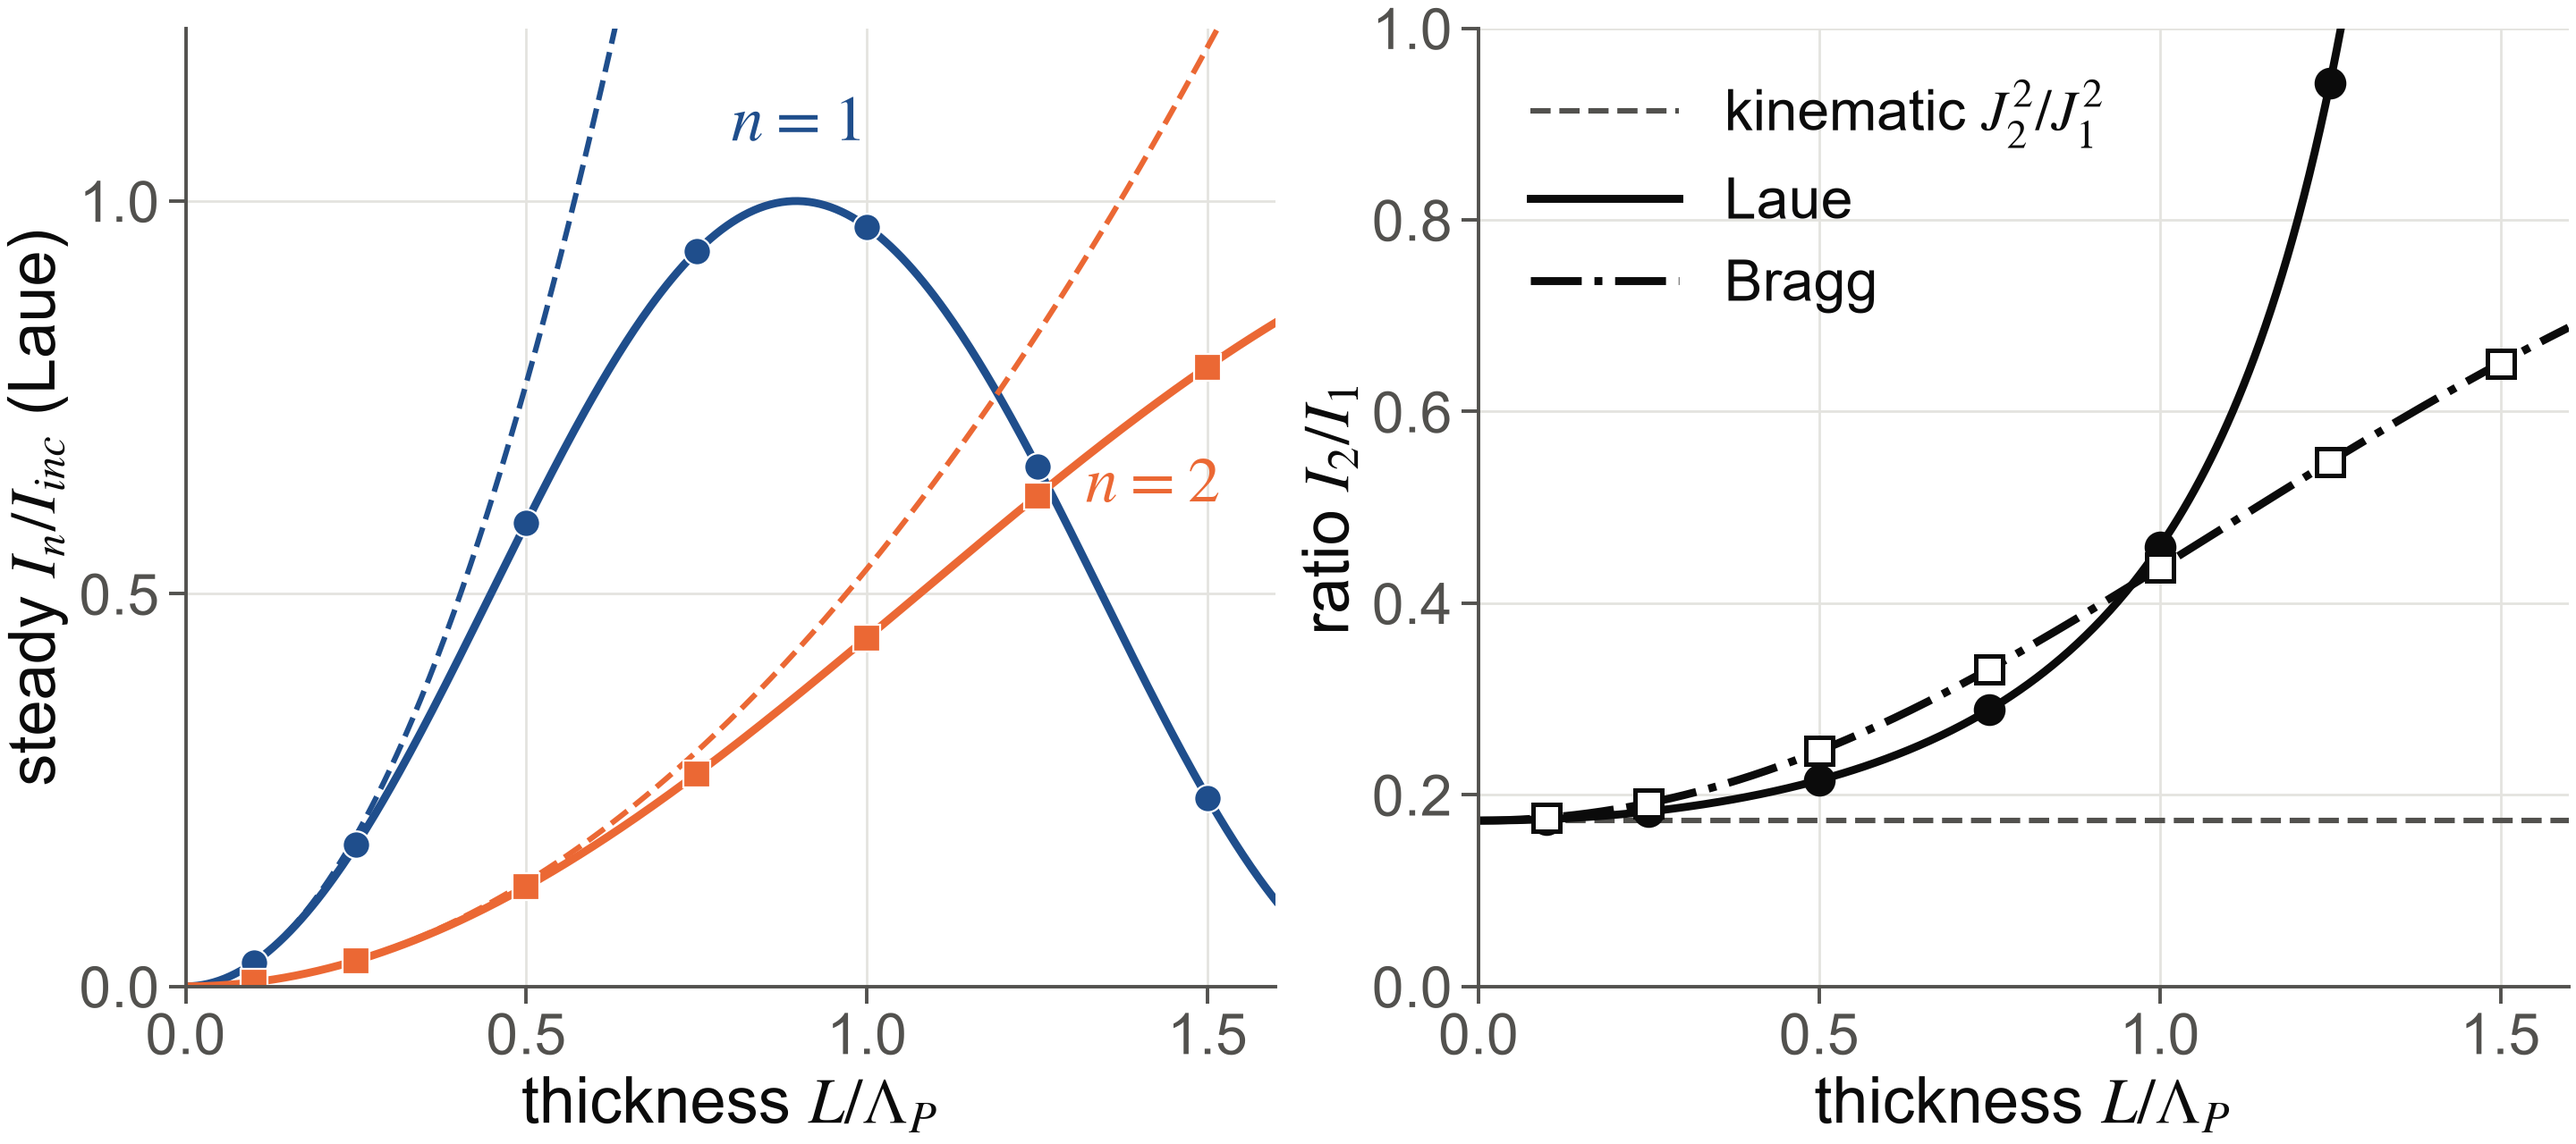
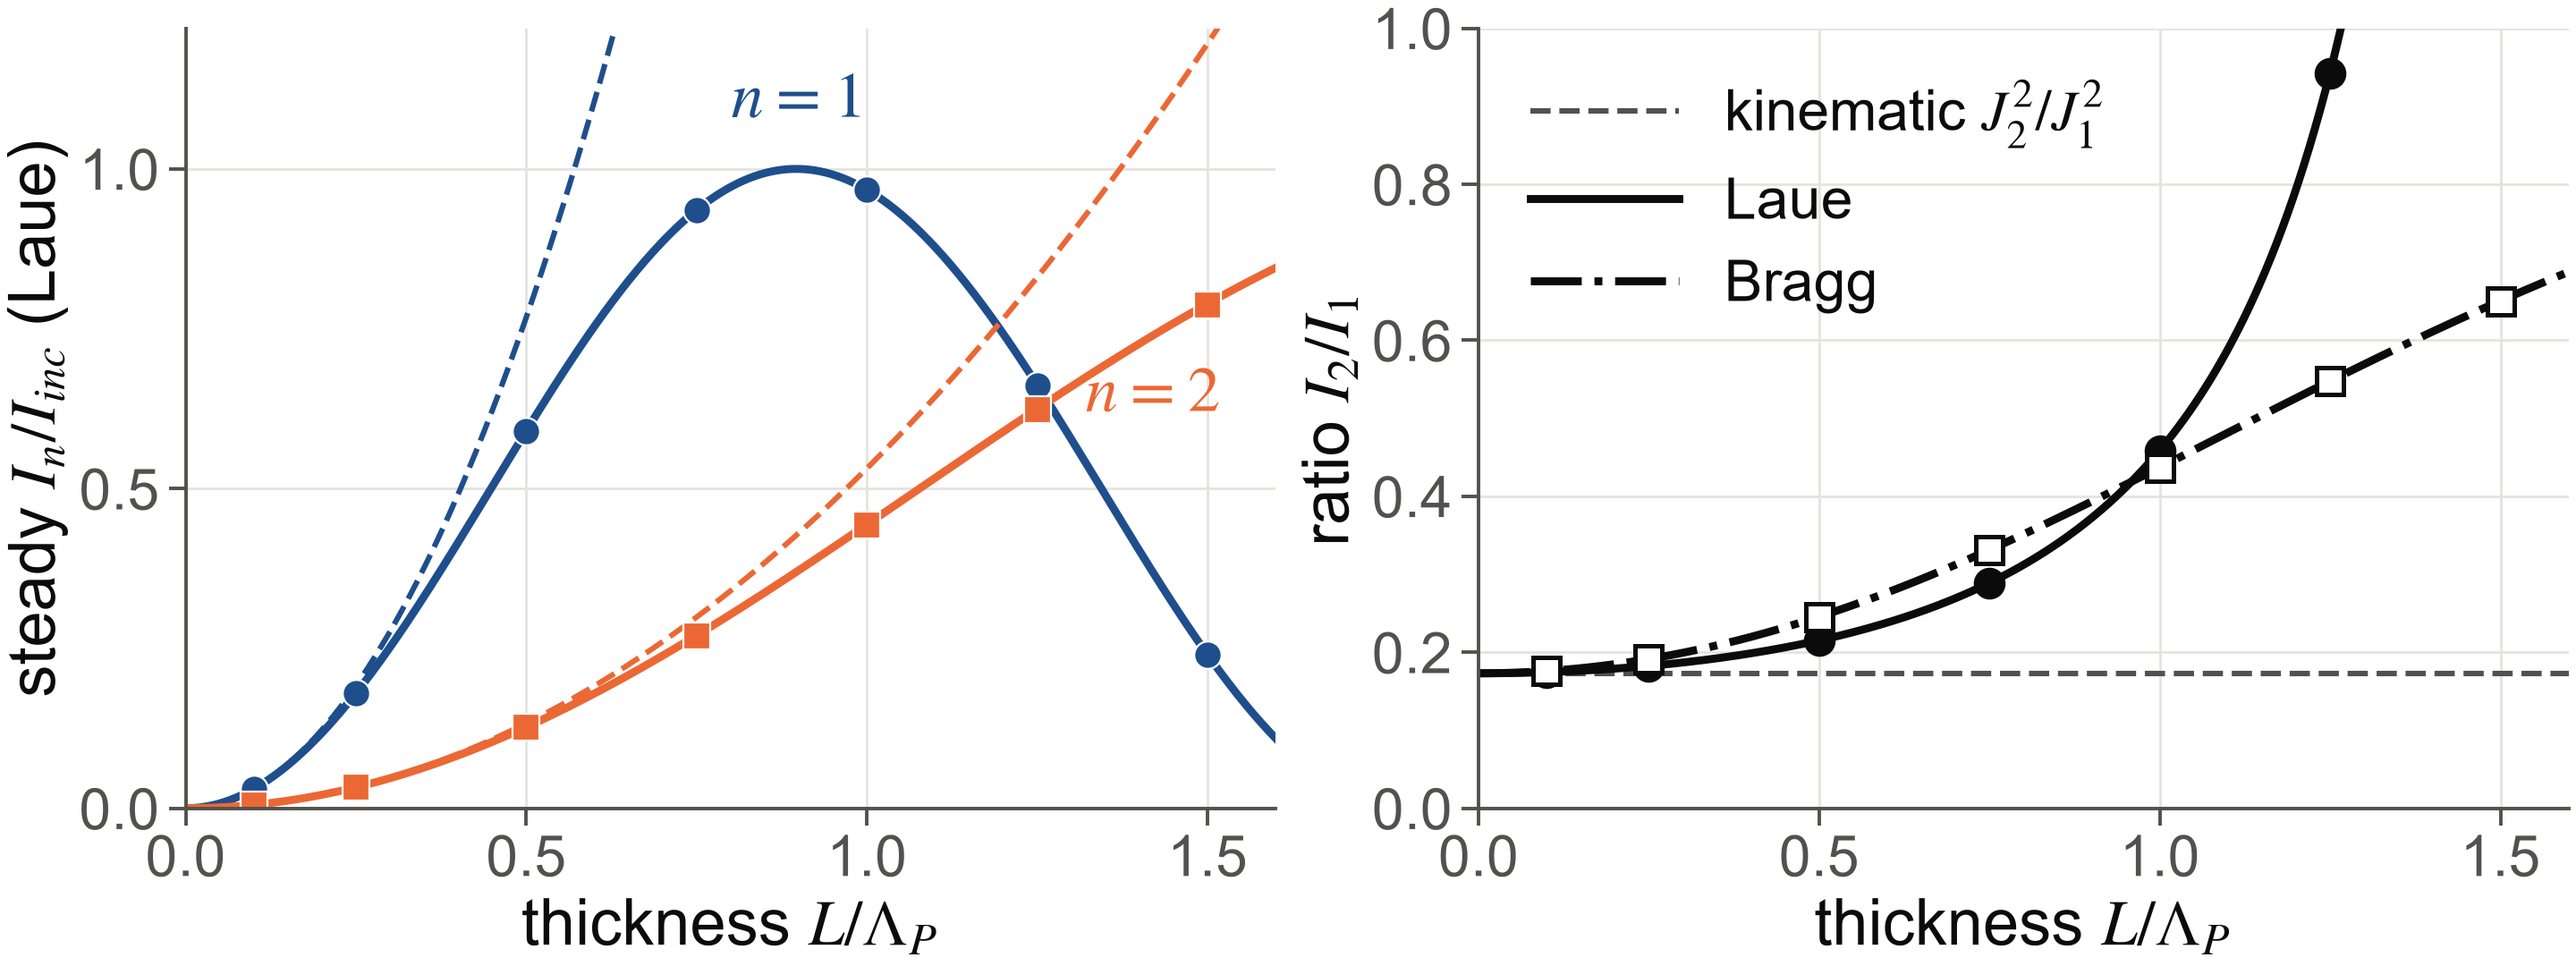
docs(poster): i-QMS introduction, formation picture and neutral wording

diff --git a/explore/make_poster_figs.py b/explore/make_poster_figs.py
@@ -59,7 +59,7 @@ TERM = "satellite"
 def use_iqms():
     global IQMS, OUT, BLUE, LABEL, TERM, F1_H, F7_H, F4_H
     IQMS, OUT, BLUE, LABEL, TERM = True, OUT / "iqms", "#1f4e8c", INK, "sideband"
-    F1_H, F7_H, F4_H = 5.2, 5.6, 4.2  # f1 key inside the axes, f7 map only
+    F1_H, F7_H, F4_H = 5.2, 4.6, 3.8  # f1 key inside the axes, f7 map only
 
 
 def style():
@@ -992,9 +992,7 @@ def f10():
     laue, bragg = f10_points()
     j1, j2 = abs(jv(1, F10_S)), abs(jv(2, F10_S))
     a = np.linspace(1e-3, 1.6, 400)
-    fig, (ax, axr) = plt.subplots(
-        1, 2, figsize=(FIG_W, 6.4 if IQMS else 5.4), constrained_layout=True
-    )
+    fig, (ax, axr) = plt.subplots(1, 2, figsize=(FIG_W, 5.4), constrained_layout=True)
     # Left: one colour per order, named on the curve; dashed = kinematic (caption). Right: one
     # colour per geometry would reuse the left pair for another meaning, so it is black and grey.
     for j, I, c, m, n, xy in (
@@ -1035,6 +1033,132 @@ def f10():
         dev = np.abs(I - law(np.outer(F10_ALPHA, [j1, j2]))).max()
         print(f"f10 {name}: max |TT - closed form| = {dev:.3f}")
     print(f"f10 kinematic J_2^2/J_1^2 = {kin:.3f}")
+
+
+def f11():
+    """i-QMS panel 3: the formation picture. Left, the sketch of the KPS print poster (a7747b0 f0,
+    without its rocking curve): only the layer 0 < z < v_s t behind the wavefront is driven. Right,
+    the closed form for that layer, n = 1, S = 1.5, L = 296 um, Si 440 at 30 keV (constants as in
+    poster/check_numbers.py): Laue oscillates until t_tr and then holds sin^2(pi t_tr / tau_1);
+    Bragg saturates near tau_1. Closed form only; the full-TT check is the f4 panel."""
+    from scipy.special import jv
+
+    style()
+    LAB, KEY = BIG, BIG + 4
+    S, t = 1.5, 0.62
+    d = Drive(S=S, alpha_ac=5.0)
+
+    lam_laue = 98.76e-6
+    theta_b = np.arcsin(12.398420 / 30.0 * 1e-10 / (2 * 5.4310e-10 / np.sqrt(32)))
+    v_laue = np.sqrt(79.6e9 / 2329.0)
+    v_bragg = np.sqrt((165.7e9 + 63.9e9 + 2 * 79.6e9) / (2 * 2329.0))
+    j1, L = abs(jv(1, S)), 296e-6
+    cases = (
+        ("Laue", BLUE, lam_laue / (v_laue * j1), L / v_laue, lambda x: np.sin(np.pi * x) ** 2),
+        (
+            "Bragg",
+            ORANGE,
+            lam_laue * np.tan(theta_b) / (v_bragg * j1),
+            L / v_bragg,
+            lambda x: np.tanh(np.pi * x) ** 2,
+        ),
+    )
+
+    fig, (ax, axr) = plt.subplots(
+        1,
+        2,
+        figsize=(FIG_W, 0.33 * FIG_W),
+        constrained_layout=True,
+        gridspec_kw=dict(width_ratios=[1.55, 1.0], wspace=0.04),
+    )
+    ax.set(xlim=(-3.3, 9.9), ylim=(-0.6, 10.6))
+    ax.axis("off")
+    x0, x1, y0, y1 = 0.0, 6.0, 2.1, 8.1
+    xf = x0 + t * (x1 - x0)
+    ymid = 0.5 * (y0 + y1)
+    ax.add_patch(plt.Rectangle((x0, y0), x1 - x0, y1 - y0, fc="#f4f7fb", ec=INK2, lw=1.6, zorder=1))
+    ax.add_patch(plt.Rectangle((x0, y0), xf - x0, y1 - y0, fc="#e7effa", ec="none", zorder=1))
+    zz = np.linspace(0.0, 1.0, 1200)
+    phi = d.phi(t)(zz)
+    amp = 0.33 * (y1 - y0) / max(abs(phi).max(), 1e-9)
+    on = zz <= t  # only where the wave has arrived; a flat line ahead would read as a beam
+    ax.plot(x0 + zz[on] * (x1 - x0), ymid + amp * phi[on], color=BLUE, lw=2.8, zorder=3)
+    ax.plot([xf, xf], [y0, y1], color=BLUE, lw=2.4, ls=(0, (4, 3)), zorder=4)
+    ax.text(
+        x0 + 1.6, y1 + 0.36, "acoustic wave", color=BLUE, ha="center", va="bottom", fontsize=LAB
+    )
+    ax.annotate(
+        "",
+        xy=(xf + 1.25, y1 + 0.7),
+        xytext=(xf, y1 + 0.7),
+        arrowprops=dict(arrowstyle="-|>", color=BLUE, lw=2.2, mutation_scale=22),
+    )
+    ax.text(xf + 1.45, y1 + 0.7, r"$v_s$", color=BLUE, va="center", fontsize=KEY)
+    ax.text(xf, y1 + 1.55, "wavefront", color=BLUE, ha="center", va="bottom", fontsize=LAB)
+    ax.text(
+        0.5 * (xf + x1) + 0.1,
+        ymid,
+        "unstrained",
+        color=INK2,
+        ha="center",
+        va="center",
+        rotation=90,
+        fontsize=LAB - 2,
+    )
+    ty = y0 + 0.58 * (y1 - y0)
+    ax.add_patch(plt.Rectangle((x0 - 0.44, y0), 0.44, ty - y0, fc=INK2, ec="none", zorder=2))
+    ax.text(
+        x0 - 0.62, 0.5 * (y0 + ty), "transducer", ha="right", va="center", fontsize=LAB, color=INK2
+    )
+    yd = y0 - 0.72
+    ax.annotate(
+        "",
+        xy=(x1, yd),
+        xytext=(x0, yd),
+        arrowprops=dict(arrowstyle="<|-|>", color=INK2, lw=1.2, mutation_scale=13),
+    )
+    for x in (x0, xf, x1):
+        ax.plot([x, x], [yd - 0.22, yd + 0.22], color=INK2, lw=1.1)
+    ax.plot([x0, xf], [yd, yd], color=INK, lw=3.2, solid_capstyle="butt")
+    ax.text(x1 + 0.22, yd, r"$L$", ha="left", va="center", fontsize=LAB, color=INK2)
+    ax.text(
+        0.5 * (x0 + xf), yd - 0.38, r"driven depth $v_s t$", ha="center", va="top", fontsize=LAB
+    )
+    ax.annotate(
+        "",
+        xy=(x0 + 0.08, ymid + 1.25),
+        xytext=(-2.8, ymid + 2.85),
+        arrowprops=dict(arrowstyle="-|>", color=INK, lw=2.8, mutation_scale=26),
+        zorder=5,
+    )
+    ax.text(-2.9, ymid + 3.2, "X-ray", fontsize=KEY, color=INK)
+    for sign, name, color in ((1, r"$D_0$", INK2), (-1, r"$D_h$", ORANGE)):
+        ax.annotate(
+            "",
+            xy=(9.0, ymid + sign * 1.65),
+            xytext=(x1, ymid + sign * 0.1),
+            arrowprops=dict(arrowstyle="-|>", color=color, lw=2.6, mutation_scale=22),
+        )
+        ax.text(9.15, ymid + sign * 1.8, name, va="center", fontsize=KEY, color=color)
+
+    tt = np.linspace(0, 62e-9, 1500)
+    for name, color, tau, t_tr, law in cases:
+        axr.plot(tt * 1e9, law(np.minimum(tt, t_tr) / tau), color=color, lw=2.6, label=name)
+        axr.plot([t_tr * 1e9] * 2, [1.08, 1.2], color=color, lw=4, solid_capstyle="butt")
+    axr.text(62, 1.14, r"$t_{tr}$", ha="right", va="center", fontsize=LAB - 2)
+    axr.set(
+        xlim=(0, 62),
+        ylim=(-0.03, 1.22),
+        yticks=[0, 0.5, 1],
+        xlabel="time $t$ (ns)",
+        ylabel=r"$I_1/I_{inc}$",
+    )
+    axr.legend(loc="lower right", frameon=False, fontsize=LAB - 2, handlelength=1.6)
+    finish(fig, axr, "f11_formation")
+    for name, _, tau, t_tr, law in cases:
+        print(
+            f"f11 {name}: tau_1 {tau * 1e9:.1f} ns, t_tr {t_tr * 1e9:.1f} ns, I(t_tr) {law(t_tr / tau):.2f}"
+        )
 
 
 if __name__ == "__main__":

diff --git a/poster/iqms.md b/poster/iqms.md
@@ -13,94 +13,101 @@ contact: Code, notebook and data: github.com/NaNIsaac-Research/TraTT (QR at righ
 
 <!--
 Printed text source for the i-QMS 2026 poster; build with python poster/build.py 150 poster/iqms.md.
-Figures: python explore/make_poster_figs.py --iqms f1 f4 f7 f8 f9 f10 (figures/poster/iqms/).
+Figures: python explore/make_poster_figs.py --iqms f4 f7 f8 f9 f10 f11 (figures/poster/iqms/).
 Story and title follow the i-QMS abstract; notation, sign convention and layout are those of
-poster/poster.md. v4 (declutter): a claim heading, one figure and at most three short lines per
+poster/poster.md. v4 (declutter): a topic heading, one figure and at most three short lines per
 panel; captions one line. Header, section heads, Conclusions and footer in the lab look of
 the KPS print poster (look: lab). "Closed form" is the one name for the independent-channel model (sin^2,
 tanh^2, Theta_n). Every number is recomputed by poster/check_numbers.py. "Si 440", "30 keV" and
 "6 %" carry a no-break space (U+00A0).
 -->
 
-@pair
+## Introduction
 
-## A sound wave splits the reflection into sidebands
-
-How fast does diffraction follow sound? It sets the speed of acoustic X-ray gates. {E7}{E21}
+[[ 0.36 c
 
 ![Shear wave, $u\parallel h$: sideband $n$ at $\beta=nK$ (Laue), kinematic weight $J_n(S)^2$.](figures/poster/iqms/f8_satellites.png){E0}{E7}
 
-$$ $\phi=S\sin(Kz-\Omega t)$:  $e^{-i\phi}=\Sigma_n\,(-1)^nJ_n(S)\,e^{in(Kz-\Omega t)}$ {E0}
+|| 0.64 c
 
-With $S=hu_0$, sideband $n$ carries momentum $nK$ and energy $n\hbar\Omega$; an instant response gives the Bessel law $I_n\propto J_n(S)^2$. {E0}{E7}{E42}
+**Motivation.** GHz acoustic strain is used as a pump in ultrafast X-ray diffraction, and acoustically driven crystals switch X-rays (DeCamp et al. 2001) and may serve as fast switches and pulse shapers at storage-ring and XFEL sources. The sideband formation rate sets the time resolution and switching speed. Dynamical theory gives the steady-state sideband intensities (Entin 1977; Iolin & Entin 1983; Polikarpov & Skadorov 1987), not their formation in time. {E7}{E21}{E29}{E50}
 
-## Each sideband is a two-beam problem of its own
+> **This work.** Takagi–Taupin calculations on successive acoustic snapshots of sideband formation: the formation time $\tau_n$ of each sideband, completion within the transit time $L/v_s$, the thickness range of the Bessel law, and the transient overshoot for finite rise times. {E0}{E1}{E9}{E54}{E62}{E67}
 
-$$ $dD_0/dz=(i\pi/\Lambda_P)\,e^{+i\phi}D_h$ {E0}
+]]
 
-$$ $\pm\,dD_h/dz=(i\pi/\Lambda_P)\,e^{-i\phi}D_0+i\beta D_h$  (+ Laue, − Bragg) {E0}
+@pair
 
-$\Lambda_P$: Pendellösung length (Laue), extinction length (Bragg). {E0}{E20}
+## Two-beam Takagi–Taupin model with acoustic modulation
 
-Sideband $n$ is matched at $\beta=+nK$ (Laue), $-nK$ (Bragg), with coupling $\propto\left|J_n(S)\right|$. {E0}{E44}{E54}
+$$ $\phi=h\cdot u=S\sin(Kz-\Omega t)$:  $e^{-i\phi}=\Sigma_n\,(-1)^nJ_n(S)\,e^{in(Kz-\Omega t)}$ {E0}
+
+$$ $dD_0/dz=(i\pi/\Lambda_P)\,e^{+i\phi}D_h$,  $\pm\,dD_h/dz=(i\pi/\Lambda_P)\,e^{-i\phi}D_0+i\beta D_h$ {E0}
+
+$\Lambda_P$: Pendellösung length (Laue, +), extinction length (Bragg, −) (Takagi 1962, 1969; Taupin 1964). {E0}{E20}
+
+Sideband $n$ (momentum $nK$, energy $n\hbar\Omega$) is phase-matched at $\beta=+nK$ (Laue), $-nK$ (Bragg), with coupling $\propto\left|J_n(S)\right|$; kinematically $I_n\propto J_n(S)^2$. {E0}{E7}{E42}{E44}{E54}
 
 ![Si 440, 30 keV: Laue $\Lambda_P$ = 98.8 μm, $v_s$ = 5.85 km/s; Bragg $\Lambda_P$ = 21.8 μm, $v_s$ = 9.14 km/s.](figures/poster/iqms/f9_geometry.png){E0}{E20}{E85}
 
-@pair
+## Formation dynamics during acoustic onset
 
-## Sidebands form within the transit time
+![Step onset: the layer $0<z<v_st$ is driven. Right: closed form, $n$ = 1, $S$ = 1.5, $L$ = 296 μm, Si.](figures/poster/iqms/f11_formation.png){E0}{E1}{E9}{E20}{E85}
 
-~ step | **Step onset:** only $0<z<v_st$ is driven, until $t_{tr}=L/v_s$. {E0}
+Each sideband is a two-beam problem with Pendellösung length $\Lambda_P/\left|J_n\right|$; the driven thickness $L\to v_st$ in the closed form (panel 4) gives {E1}{E9}
 
 $$ $I_n=\sin^2(\pi t/\tau_n)$ (Laue), $\ \tanh^2(\pi t/\tau_n)$ (Bragg), $\ \tau_n=\Lambda_P/(v_s\left|J_n(S)\right|)$ {E1}{E9}
 
-**Laue** settles at $t_{tr}$; **Bragg** at about $\tau_n$, before $t_{tr}$ in a thick crystal. {E1}{E9}{E28}
+In Laue, $I_n$ oscillates until the front reaches $z=L$ at $t_{tr}=L/v_s$; in Bragg, it saturates after about $\tau_n$. {E1}{E9}{E28}
 
-$L$ = 296 μm, $S$ = 1.5: Laue $\tau_1$ = 30 ns, $t_{tr}$ = 50.6 ns; Bragg $\tau_1$ = 4.3 ns, $t_{tr}$ = 32.4 ns. {E20}{E85}
-
-![Full TT, four cases (points), against the closed form (line), no fitted parameters.](figures/poster/iqms/f1_collapse.png){E1}{E9}{E19}{E26}
-
-## Thick crystals break the Bessel law
-
-$$ $I_n=\sin^2(\pi L\left|J_n\right|/\Lambda_P)$ (Laue), $\ \tanh^2(\pi L\left|J_n\right|/\Lambda_P)$ (Bragg) {E1}{E9}
-
-Only for $L\ll\Lambda_P$: at $S$ = 1.5, Laue $I_2/I_1$ is 0.17 kinematically, 0.46 at $L=\Lambda_P$. {E1}{E9}
-
-![Filled crystal, $S$ = 1.5: full TT (points), closed form (solid), kinematic law (dashed).](figures/poster/iqms/f10_steady.png){E1}{E9}{E54}
+Laue $\tau_1$ = 30 ns, $t_{tr}$ = 50.6 ns; Bragg $\tau_1$ = 4.3 ns, $t_{tr}$ = 32.4 ns. {E20}{E85}
 
 @pair
 
-## A slow drive ramp overshoots
+## Steady-state sideband intensities vs thickness
 
-~ ramp | **Linear rise** over $T_{rise}$; settled at $t_{tr}+T_{rise}$. {E28}{E67}
+$$ $I_n=\sin^2(\pi L\left|J_n\right|/\Lambda_P)$ (Laue), $\ \tanh^2(\pi L\left|J_n\right|/\Lambda_P)$ (Bragg) {E1}{E9}
+
+For $L\ll\Lambda_P$ both reduce to the kinematic $J_n^2$ law; for $L\sim\Lambda_P$ they deviate: at $S$ = 1.5, Laue $I_2/I_1$ = 0.17 (kinematic), 0.46 at $L=\Lambda_P$. {E1}{E9}
+
+![Filled crystal, $S$ = 1.5: full TT (points), closed form (solid), kinematic law (dashed).](figures/poster/iqms/f10_steady.png){E1}{E9}{E54}
+
+## Finite rise time and transient overshoot
+
+~ ramp | **Linear rise** over $T_{rise}$; the intensity settles at $t_{tr}+T_{rise}$. {E28}{E67}
 
 $$ $I_n\approx\sin^2(\pi L\,\Theta_n/\Lambda_P),\qquad\Theta_n(t)=(1/L)\int_0^L J_n[S\,A(t-z/v_s)]\,dz$ {E5}{E28}
 
-Beyond the $J_1$ maximum ($S$ = 1.84), $I_1$ overshoots, more for a slower rise. {E5}{E15}{E67}
+For $S$ beyond the $J_1$ maximum ($S$ = 1.84), $I_1$ passes a transient maximum above its steady value that grows with $T_{rise}$. {E5}{E15}{E67}
 
-+ Monotonic rise for any non-decreasing envelope if $S$ is below the first maximum of $\left|J_n\right|$ and $L\left|J_n\right|/\Lambda_P<1/2$. {E5}{E67}
++ The rise is monotonic for any non-decreasing envelope when $S$ is below the first maximum of $\left|J_n\right|$ and $L\left|J_n\right|/\Lambda_P<1/2$. {E5}{E67}
 
-![Overshoot $\Delta I=I_{max}-I_{steady}$ from the closed form, Laue, $n$ = 1, $L=\Lambda_P/2$.](figures/poster/iqms/f7_overshoot.png){E15}{E28}{E67}
+![Transient excess $\Delta I=I_{max}-I_{steady}$, closed form, Laue, $n$ = 1, $L=\Lambda_P/2$.](figures/poster/iqms/f7_overshoot.png){E15}{E28}{E67}
 
-## Checked against full Takagi–Taupin
+## Validation and outlook
 
-![Error of the closed form against full TT, filled Laue crystal.](figures/poster/iqms/f4_regime.png){E19}{E44}{E54}
+[[ 0.5 c
 
-The closed form holds below $\Lambda_{ac}/\Lambda_P\approx0.3$ (error under 6 %). {E19}{E44}{E54}
+![Relative error of the closed form against full TT, filled Laue crystal.](figures/poster/iqms/f4_regime.png){E19}{E44}{E54}
 
-- **Known:** steady acoustic satellites (Entin 1977; Iolin & Entin 1983; Polikarpov & Skadorov 1987); acoustic switching (DeCamp et al. 2001); TT (Takagi 1962, 1969; Taupin 1964). {E7}{E21}{E29}{E50}
-- **Method:** RK4 on frozen snapshots ($L/c$ = 0.99 ps $\ll$ 500 ps period), Floquet check. {E0}{E31}{E42}{E62}
-- **Outlook:** $S$ = 1.5 is $u_0$ = 23 pm, strain $5\times10^{-5}$ at 2 GHz; formation takes 4–30 ns. The sideband centre needs a divergence below 0.16 μrad (Bragg), 0.05 μrad (Laue). {E20}{E73}{E84}{E92}
+|| 0.5 c
+
+The closed form agrees with full TT within 6 % for $\Lambda_{ac}/\Lambda_P<0.3$. {E19}{E44}{E54}
+
+- **Method:** RK4 on frozen snapshots ($L/c$ = 0.99 ps $\ll$ 500 ps period), checked against an exact Floquet solver. {E0}{E31}{E42}{E62}
+- **Outlook:** $S$ = 1.5 corresponds to $u_0$ = 23 pm (strain $5\times10^{-5}$ at 2 GHz); formation times are 4–30 ns. The sideband centre requires a divergence below 0.16 μrad (Bragg) or 0.05 μrad (Laue). {E20}{E73}{E84}{E92}
+
+]]
 
 ## Conclusions
 
 [[ 0.59 c
 
-Full Takagi–Taupin calculations of an acoustically driven crystal give one formation clock per sideband, $\tau_n=\Lambda_P/(v_s\left|J_n(S)\right|)$, a transit-time limit on settling, steady ratios away from the Bessel law, and an overshoot for slow ramps past the $J_1$ maximum. {E0}{E1}{E9}{E54}{E67}
+The formation time scales as $1/\left|J_n(S)\right|$; intensity ratios deviate from $J_n^2$ as $L$ approaches $\Lambda_P$; for $S$ beyond the $J_1$ maximum a finite rise time gives a transient overshoot. {E1}{E9}{E54}{E67}
 
 || 0.41 c
 
-> Sidebands form within the transit time $L/v_s$, nanoseconds in Si; the Bessel law needs $L\ll\Lambda_P$. {E1}{E9}{E67}
+> Sideband formation is complete within the acoustic transit time $L/v_s$ (ns in Si); the kinematic Bessel law holds for $L\ll\Lambda_P$. {E1}{E9}{E67}
 
 ]]
 
